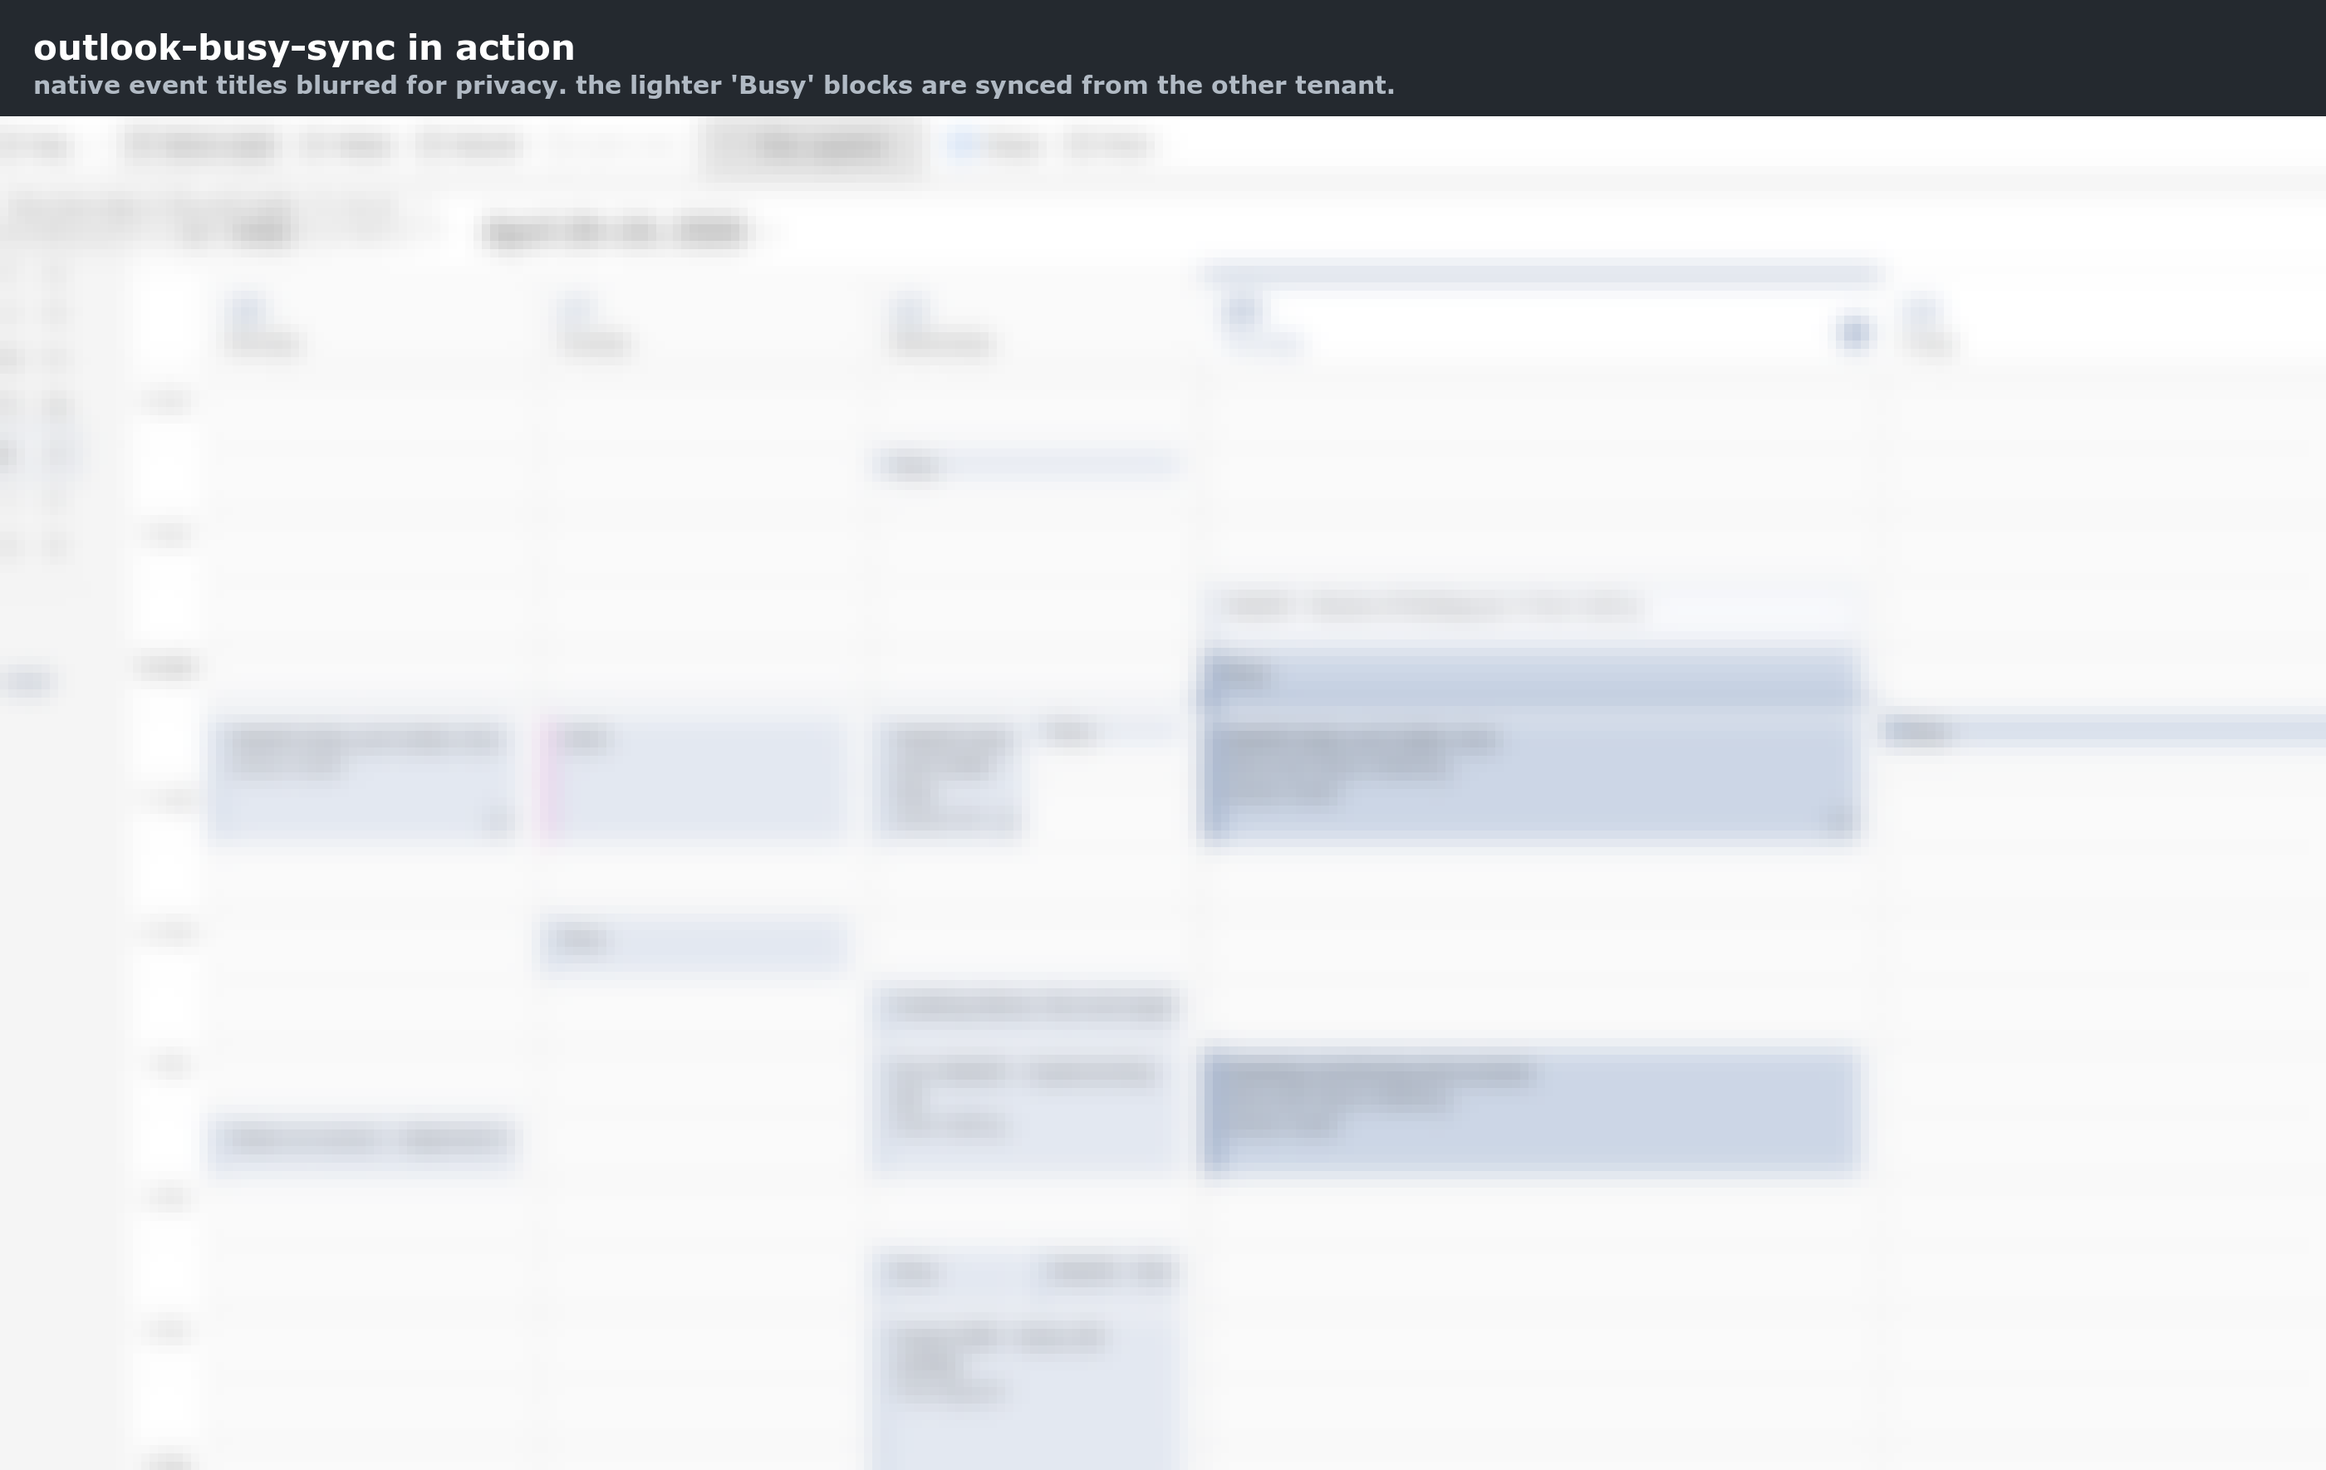
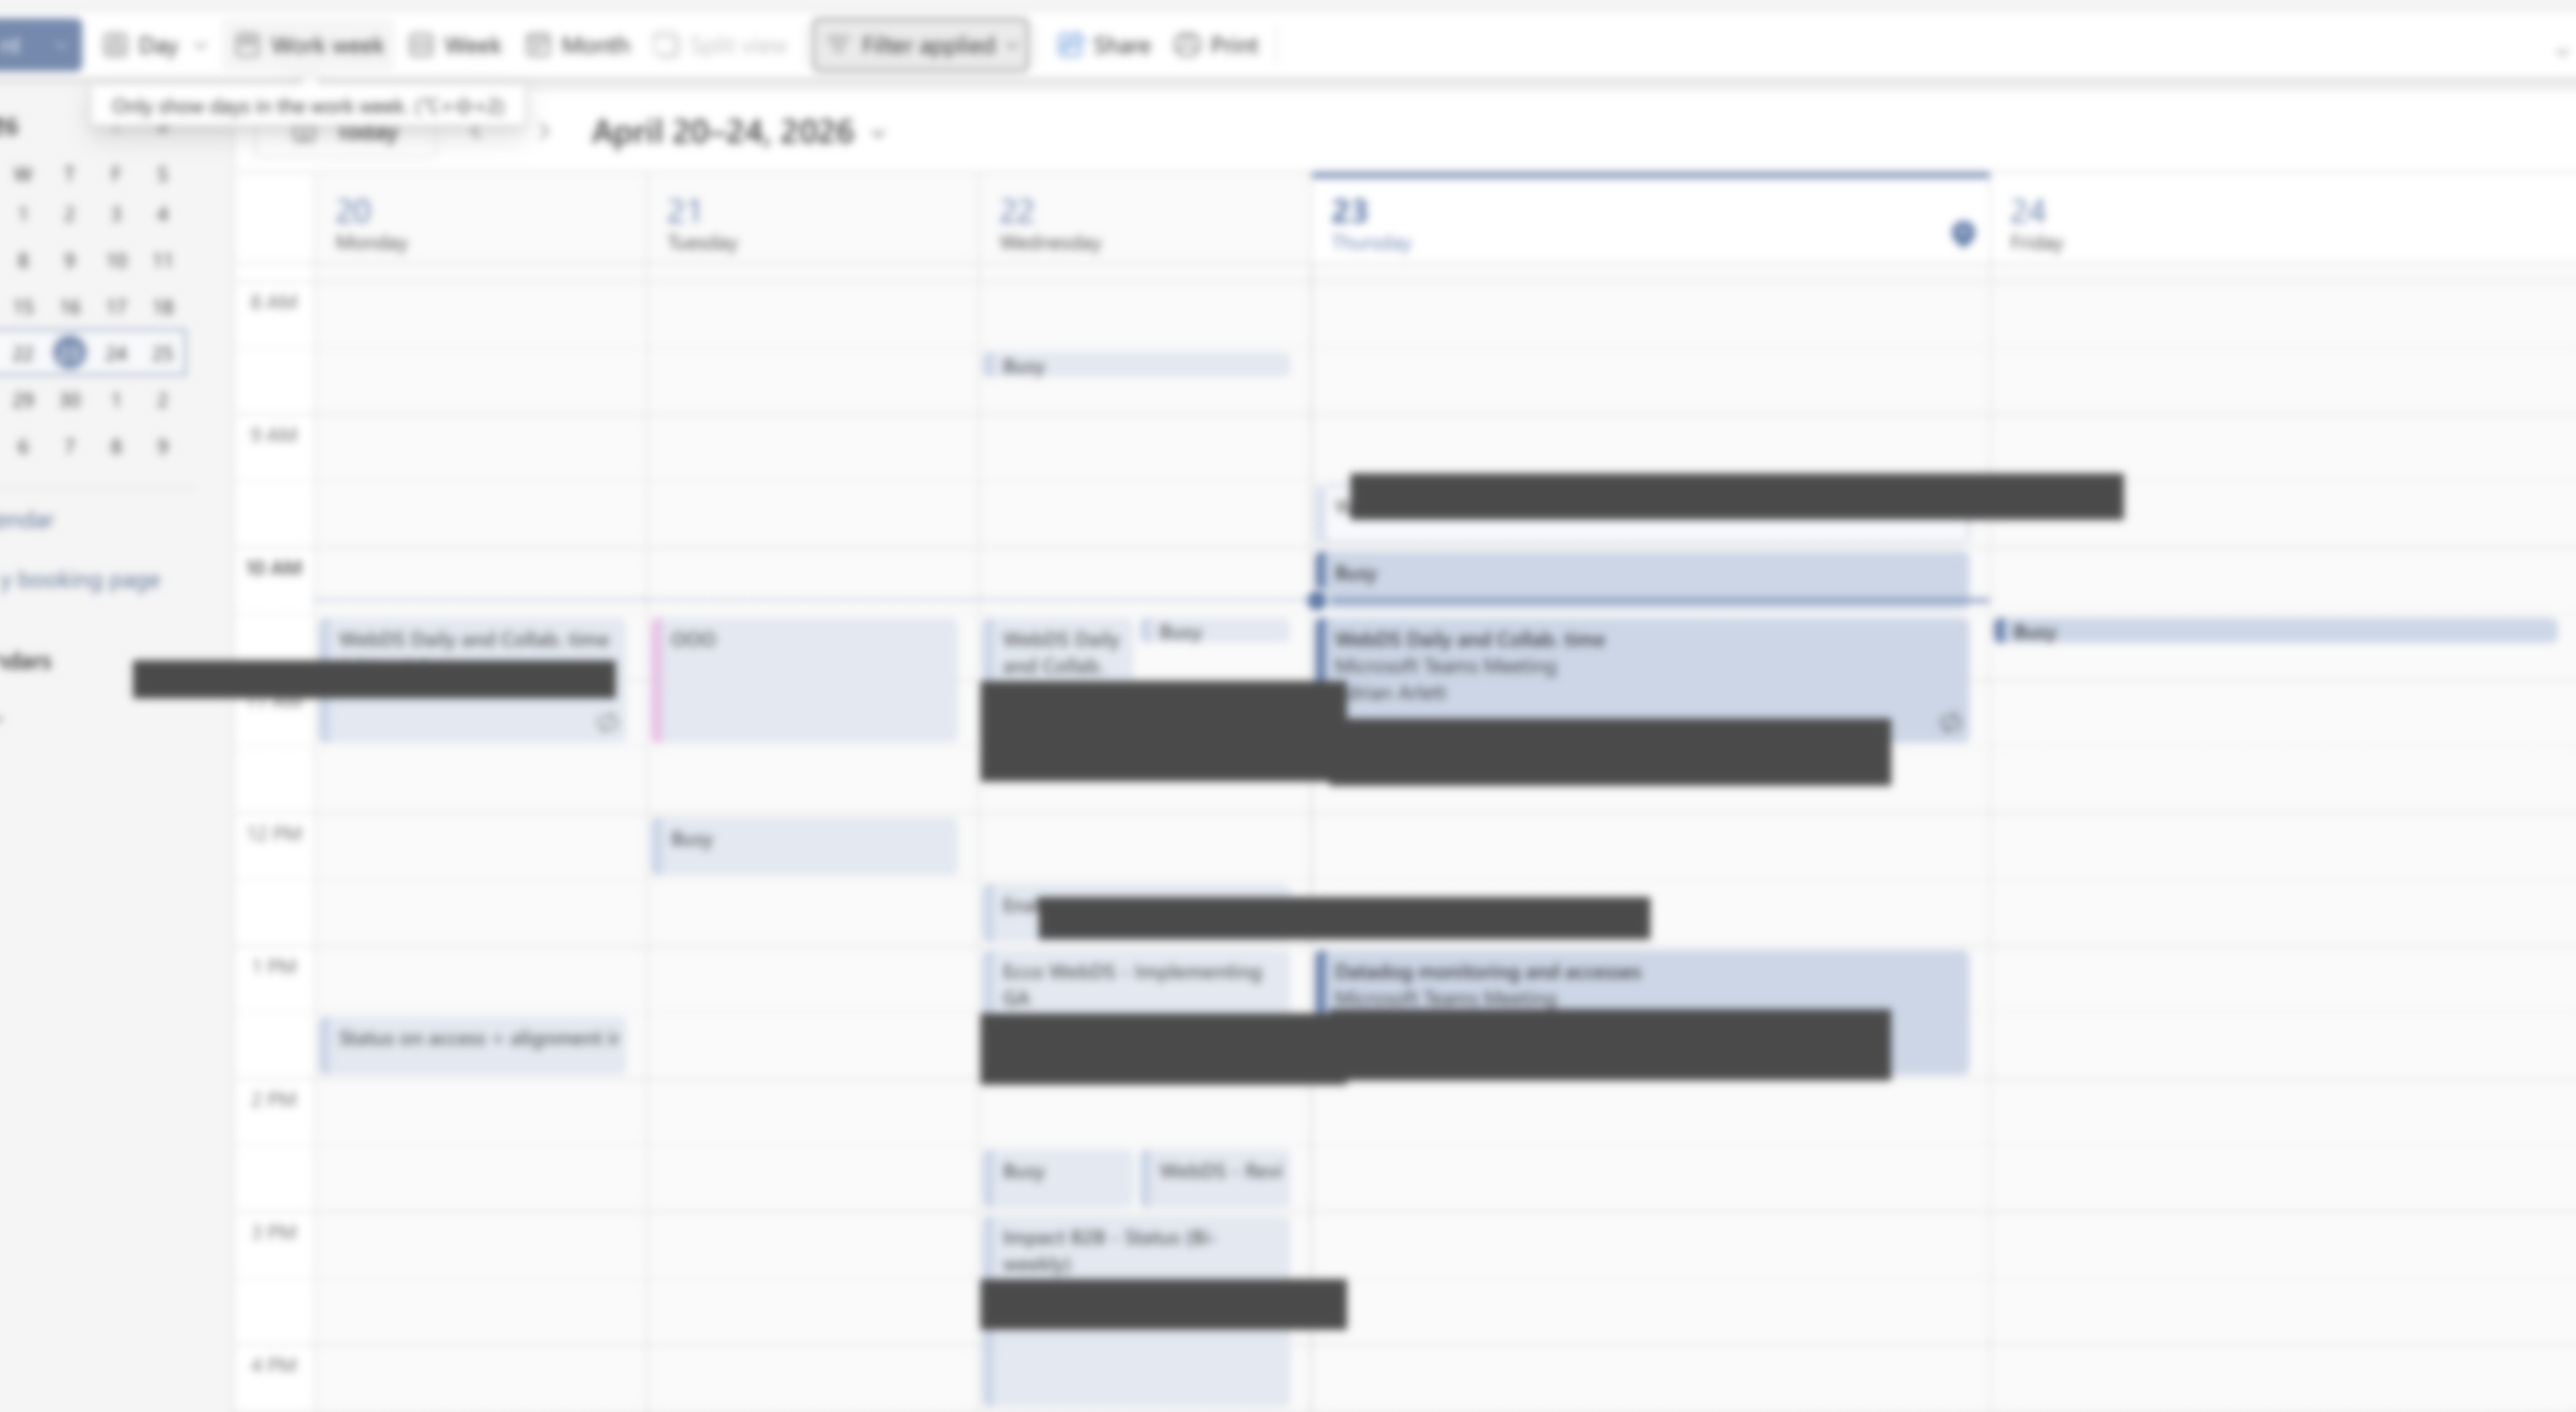
feat(cli): logout command + reshoot README screenshot with name redactions
logout:
  Wraps the existing Authenticator.Logout() in a CLI entry point so
  users can `outlook-busy-sync logout <account>` when rotating devices
  or preparing to hand a laptop off. The --help text is explicit that
  this only clears the LOCAL cache; true server-side session
  revocation still needs Entra ID admin action, which is the behaviour
  documented in the Security section of the README.

Screenshot:
  Previous attempt was heavily over-blurred and destroyed event titles
  (which are safe content). Reshoot strategy:
    - crop out macOS menu bar, Outlook title bar containing the user's
      name, the "ecco" logo, and the left sidebar where the tenant
      name would otherwise show
    - draw solid-gray redaction bars over each attendee name visible
      in event blocks (Adrian, Peter, Thai, Marta) so personal info is
      removed while event titles and calendar structure stay legible
    - finish with a radius-5 soft blur as a belt-and-suspenders safety
      net against any pixel-edge leaks from the rectangles
  Event titles like "WebDS Daily and Collab. time", "Ecco WebDS -
  Implementing", "Datadog monitoring and accesses", "Impact B2B -
  Status (Bi-weekly)" stay readable; the "Busy" markers created by
  the tool itself remain clearly visible as the whole point of the
  shot.

diff --git a/internal/cli/cli.go b/internal/cli/cli.go
@@ -87,12 +87,52 @@ func NewRoot() *cobra.Command {
 	}
 
 	cmd.AddCommand(newAuthCmd(&g))
+	cmd.AddCommand(newLogoutCmd(&g))
 	cmd.AddCommand(newSyncCmd(&g))
 	cmd.AddCommand(newConfigCmd(&g))
 	cmd.AddCommand(newStatusCmd(&g))
 	cmd.AddCommand(newEventsCmd(&g))
 	cmd.AddCommand(newInitCmd(&g))
 	return cmd
+}
+
+// newLogoutCmd clears cached tokens for a single account locally. The
+// Graph-side refresh token remains valid until the tenant's configured
+// sliding lifetime expires; to force hard revocation the user (or an
+// admin) must invalidate the session via Entra ID. This is called out
+// in `--help` so users aren't surprised.
+func newLogoutCmd(g *globalOpts) *cobra.Command {
+	return &cobra.Command{
+		Use:   "logout <account>",
+		Short: "Clear cached credentials for one account",
+		Long: `Clear the cached refresh token for an account from the platform
+keyring and the 0600 file fallback.
+
+The refresh token itself remains valid server-side until its configured
+lifetime expires (default 90 days sliding). For immediate revocation
+after, e.g., a lost laptop, ask your tenant admin to revoke active
+sessions for the user via Entra ID.`,
+		Args: cobra.ExactArgs(1),
+		RunE: func(cmd *cobra.Command, args []string) error {
+			cfg, err := loadCfg(g)
+			if err != nil {
+				return err
+			}
+			acc := cfg.Account(args[0])
+			if acc == nil {
+				return coded(ExitConfig, fmt.Errorf("account %q not defined in config", args[0]))
+			}
+			a, err := auth.New(*acc)
+			if err != nil {
+				return coded(ExitError, err)
+			}
+			if err := a.Logout(); err != nil {
+				return coded(ExitError, fmt.Errorf("clear cached credentials: %w", err))
+			}
+			fmt.Fprintf(os.Stderr, "cleared local credentials for %s\n", acc.Name)
+			return nil
+		},
+	}
 }
 
 // newInitCmd scaffolds a config file at the user's default path so a

diff --git a/internal/cli/cli_test.go b/internal/cli/cli_test.go
@@ -38,7 +38,7 @@ func TestExitCode_mapping(t *testing.T) {
 
 func TestNewRoot_hasExpectedSubcommands(t *testing.T) {
 	cmd := NewRoot()
-	want := map[string]bool{"auth": false, "sync": false, "config": false, "status": false, "events": false, "init": false}
+	want := map[string]bool{"auth": false, "logout": false, "sync": false, "config": false, "status": false, "events": false, "init": false}
 	for _, sub := range cmd.Commands() {
 		if _, ok := want[sub.Name()]; ok {
 			want[sub.Name()] = true

diff --git a/CHANGELOG.md b/CHANGELOG.md
@@ -8,6 +8,13 @@ and this project adheres to [Semantic Versioning](https://semver.org/spec/v2.0.0
 ## [Unreleased]
 
 ### Added
+- `init` command: scaffolds a starter YAML at the platform-default
+  path with `tenant_id: common` pre-filled, so first-time users do
+  not need to find UUIDs in Azure portal before they can log in.
+  Idempotent: a second run refuses to overwrite an existing file.
+- `logout <account>` command: clears the local token cache (keyring
+  + file fallback) for one account. The `--help` text reminds users
+  that server-side revocation still requires Entra ID admin action.
 - `sync --dry-run` flag: preview every create/update/delete without
   making any Graph writes. Strongly recommended before the first
   scheduled run and after toggling `skip_all_day` / `skip_declined`.
